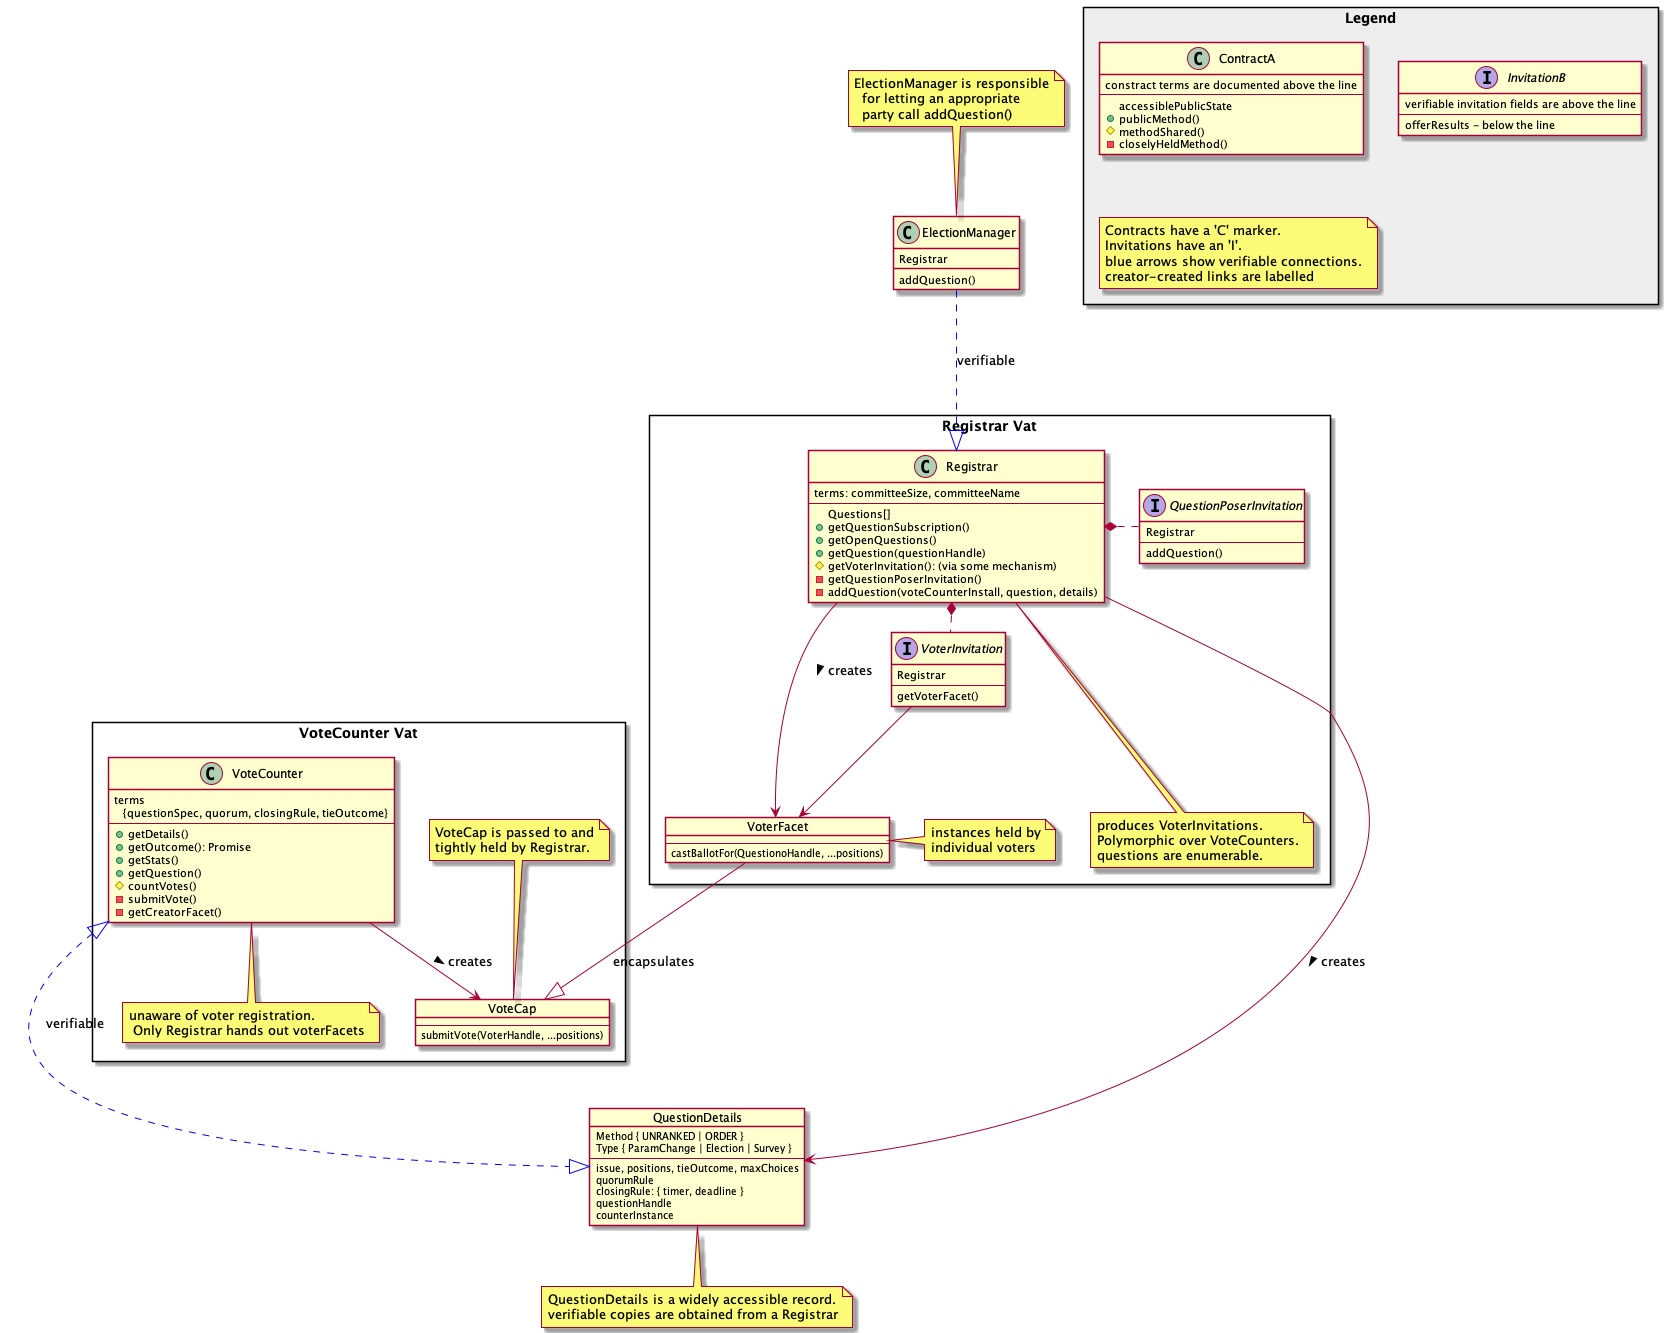
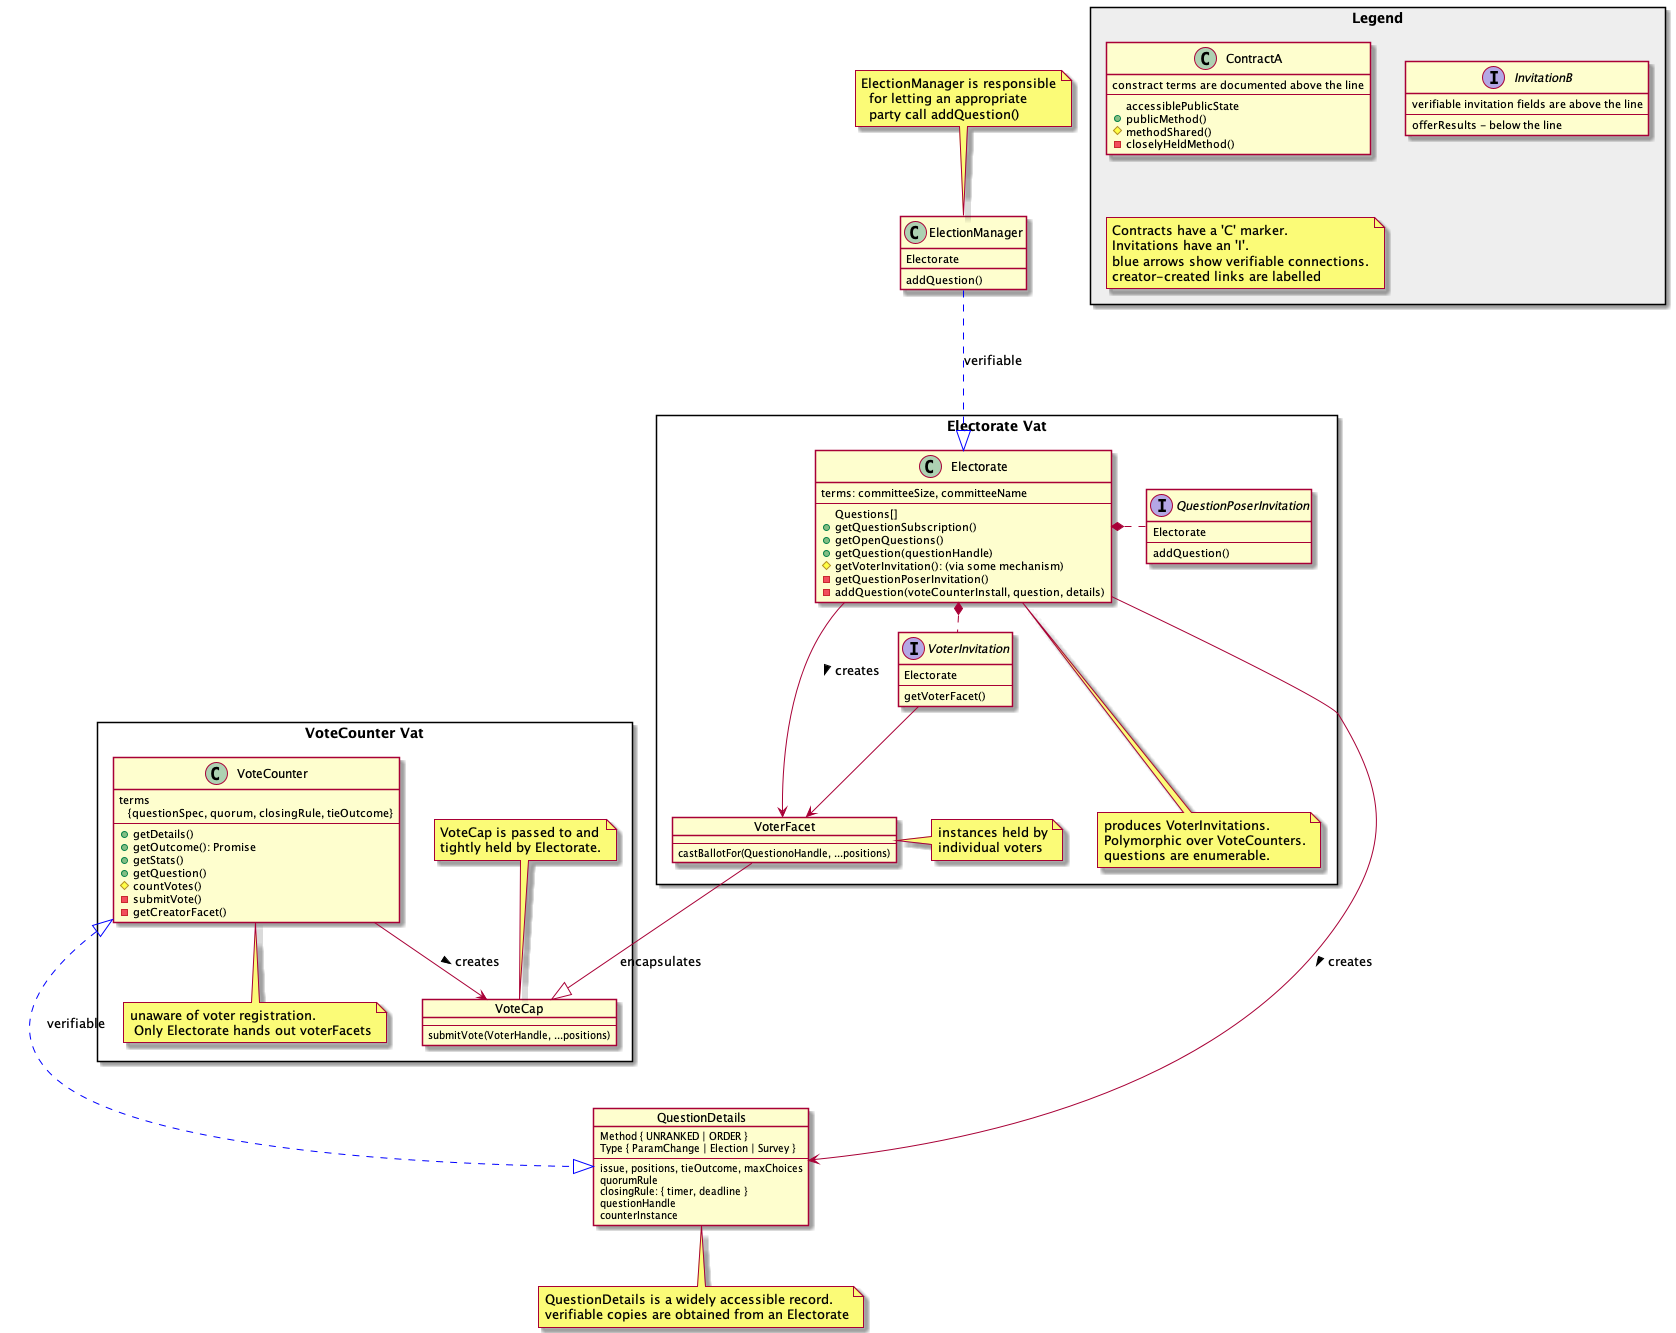
docs: regenerate governance diagrams (#3927)
* docs: regenerate governance diagrams

Following #3888, add a shell script to generate the diagrams.
Rename the files for better consistency.
Check in new .pngs, since the .pumls were recently updated.

* chore: add a final newline

diff --git a/packages/governance/docs/index.md b/packages/governance/docs/index.md
@@ -1,0 +1,13 @@
+# Governance Diagrams
+## ./contractGovernance.png
+
+[![./contractGovernance.png](./contractGovernance.png)](./contractGovernance.png)
+
+## ./coreArchitecture.png
+
+[![./coreArchitecture.png](./coreArchitecture.png)](./coreArchitecture.png)
+
+## ./governanceExample.png
+
+[![./governanceExample.png](./governanceExample.png)](./governanceExample.png)
+